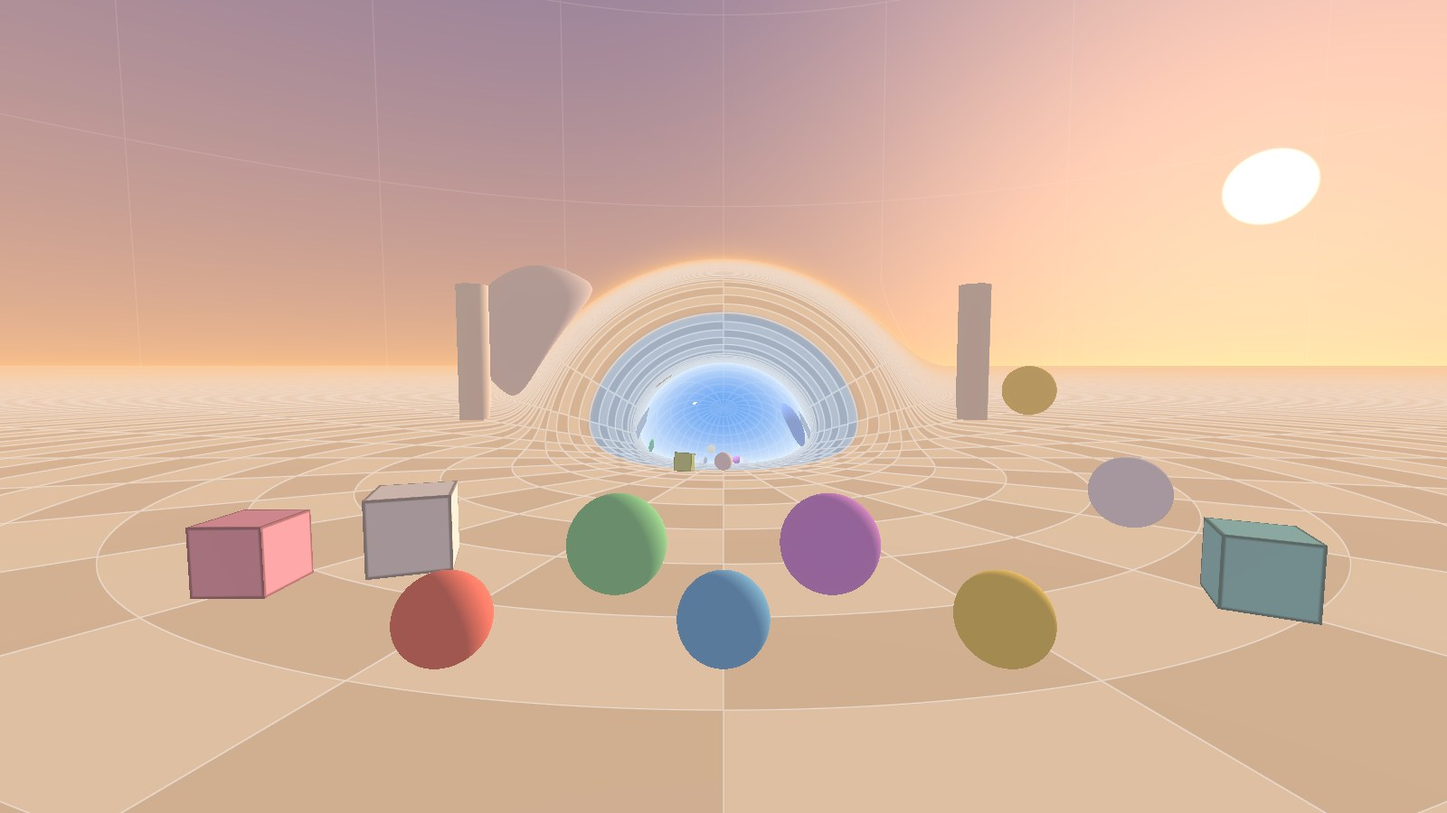
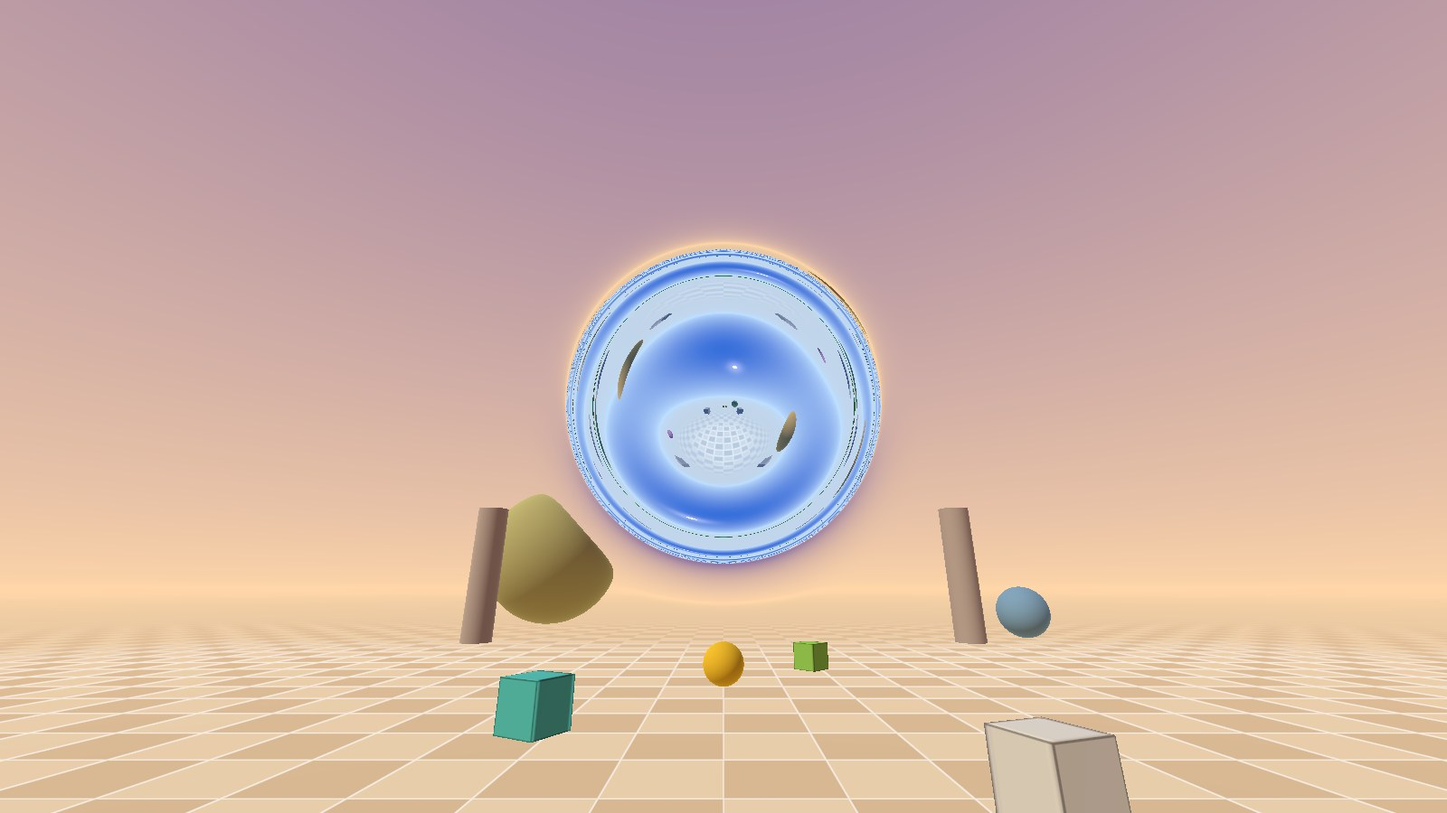
Docs: the lifted wormhole, the lens, every image; the start's picture anew
Claude-Session: https://claude.ai/code/session_01RfyTkwCswJRqyFs5hrCSQs

diff --git a/docs/wishlist.md b/docs/wishlist.md
@@ -10,32 +10,33 @@
 
 ## Новые тела и среды
 
-Мячи и кубы — два частных случая и в физике (`ball_world.gd`), и в рисовании (`shaders/body.gdshaderinc`, TOY). Новому виду нужны обе половины: движение в кривом пространстве и сетка, чьи вершины — точки пространства. Любую такую сетку вершинный шейдер рисует верно: вершина встаёт там, где её видит глаз (`geo_see`), на расстоянии длины геодезической. Между вершинами треугольник прямой, поэтому сетка должна быть настолько мелкой, чтобы кривизна не ломала края (мяч — 48 × 24, грань куба — 8 × 8 клеток, `renderer.gd`). Тело стоит своих вершин (путь к каждой, `geo_see`) и дешёвого пикселя; сколько вершин выдерживает шлем, показывает замер скорости.
+Мячи и кубы — два частных случая и в физике (`ball_world.gd`), и в рисовании, в трёх местах (`docs/geometry.md`, «Как рисуется кадр»): напрямую — обычная сетка (`shaders/body.gdshaderinc`, DIRECT), за линзой — пересечение прямой с телом в замкнутом виде (`shaders/lens.gdshaderinc`), в кривой зоне — сетка вокруг оси глаза, по сечениям полуповерхностями (`shaders/zone.gdshaderinc`: точка, где прямая в (l, rα) выходит из тела). Новому виду нужны все три и движение в кривом пространстве; выпуклому — проще всего. Тело в зоне стоит вершин всех своих изображений (20 сеток, путь к каждой вершине — `geo_see_to`); сколько вершин выдерживает шлем, показывает замер скорости.
 
 - **Твёрдые тела других форм:** капсулы, цилиндры, эллипсоиды, тела, склеенные из мячей, кубов и капсул; дальше выпуклые многогранники и сетки. Форму удобно задавать как тело R^4, разрезанное гиперповерхностью, как куб. У куба момент инерции одно число; другим формам нужен тензор инерции и уравнения Эйлера, всем — касания каждой пары форм. Рисовать — сетка формы и её точки в пространстве, как у мяча и куба в `body.gdshaderinc`. Капсулы и склейки — отладка; произвольные сетки — исследование: касания сетки с сеткой.
-- **Мягкие тела:** желе, мяч, который сплющивается при ударе, и тело, которое тянется сквозь горло, пока одна его часть в мире A, другая в B. Физика — частицы со связями (например, XPBD), каждая идёт по геодезической; надо решить, какое расстояние держит связь: хорду в R^4 или длину по пространству. Рисовать просто: вершины сетки — сами частицы, точки (l, n), как у стрелок гравитации (`body.gdshaderinc`, ARROWS). Начать можно с мяча-эллипсоида, сжатого вдоль удара. Исследование.
+- **Мягкие тела:** желе, мяч, который сплющивается при ударе, и тело, которое тянется сквозь горло, пока одна его часть в мире A, другая в B. Физика — частицы со связями (например, XPBD), каждая идёт по геодезической; надо решить, какое расстояние держит связь: хорду в R^4 или длину по пространству. Рисовать: вершины сетки — сами частицы, точки (l, n), как у стрелок гравитации (`body.gdshaderinc`, ARROWS), по сетке на изображение; треугольник поперёк оси глаза ляжет хордой поперёк кольца, так что у оси сетку надо строить вокруг неё, как у тел в зоне. Начать можно с мяча-эллипсоида, сжатого вдоль удара. Исследование.
 - **Жидкости:** лить воду у горла и смотреть, как она стекает сквозь него в мир B. Частиц нужно много, на процессоре их не посчитать: расчёт на GPU (вычислительные шейдеры, как пол нашей фовеации в `floor_fov.gd`). Поверхность — сетка, построенная по частицам на каждый кадр (например, marching cubes вычислительным шейдером); её вершины ставит тот же вершинный шейдер, но строить её надо в координатах пространства, а в кривой зоне они не плоские. Проще вариант — лужа или бассейн: сетка-карта высот в плоской части мира. Исследование.
 - **Ragdoll (тряпичная кукла):** человечек из капсул на суставах с пределами углов; бросаешь его в горло, и он падает обмякшим в другом мире. Нужны капсулы (выше) и суставы: точки крепления двух частей живут в касательных пространствах разных точек, связь между ними — переносом вдоль пути. Те же суставы дают цепи и двери. Отладка.
 - **Осколки:** куб от сильного удара раскалывается, и куски разлетаются, в том числе сквозь горло. Кусок — выпуклый многогранник, куб, разрезанный плоскостями; его сетка — грани, разбитые на клетки, как у куба. Нужны многогранники (твёрдые тела, выше), правило раскола (порог удара, разрез по Вороному) и много тел сразу: вершины всех осколков идут в цену кадра. Отладка.
 - **Сыпучее:** песок, гравий: насыпать горку у горла и смотреть, как она осыпается в него. Зёрна — частицы с трением, их много, расчёт на GPU, как у жидкости. Один метод (например, MPM) даёт и песок, и жидкость, и мягкие тела, но его сетку надо положить на кривое пространство: карты A и B плоские, кривая зона нет. Лежащий песок можно рисовать картой высот, как лужу, летящие зёрна — мелкими сетками, как мячи. Исследование.
-- **Газ, пыль, дым, туман.** Ровный туман своего цвета в каждом мире — просто: свет гаснет как exp(−σ · длина пути), а длину пути до вершины тела знает `geo_see`, до пола — `geo_floor` (way); долю пути до l = 0 даёт тот же интеграл (`geo_between`), и сквозь горло виден туман другого мира. Туман, густеющий к полу, — отладка: в кривой зоне интеграл плотности вдоль пути берётся по выборкам. Движущиеся облака — дым, уходящий сквозь горло, пыль от упавшего куба — исследование: поле плотности, расчёт на GPU и шаги вдоль луча в каждом пикселе до тела или пола, самое дорогое для шлема.
-- **Огонь.** Пламя — светящийся объём, его рисуют те же шаги вдоль луча, что дым. Огонь ещё и светит: сейчас тела освещены только солнцем и небом своего мира (в горле — их смесью по l, `look_sun4`), а свет костра идёт к предметам по геодезическим, в том числе сквозь горло в другой мир. От костра над полом к точке над полом путь один, как от глаза (`docs/geometry.md`, «Как рисуется кадр», п. 2): его находит тот же `geo_see` с костром вместо глаза. Теней нет; карта теней — тела, нарисованные тем же вершинным шейдером из костра, с длиной геодезической в глубине. Исследование.
+- **Газ, пыль, дым, туман.** Ровный туман своего цвета в каждом мире — просто: свет гаснет как exp(−σ · длина пути), а длину пути до вершины тела знает `geo_see`, до пола и до предмета за линзой — `geo_exit` и `lens_trace` (way); долю пути до l = 0 даёт тот же интеграл (`geo_between`), и сквозь горло виден туман другого мира. Туман, густеющий к полу, — отладка: в кривой зоне интеграл плотности вдоль пути берётся по выборкам. Движущиеся облака — дым, уходящий сквозь горло, пыль от упавшего куба — исследование: поле плотности, расчёт на GPU и шаги вдоль луча в каждом пикселе до тела или пола, самое дорогое для шлема.
+- **Огонь.** Пламя — светящийся объём, его рисуют те же шаги вдоль луча, что дым. Огонь ещё и светит: сейчас тела освещены только солнцем и небом своего мира (в горле — их смесью по l, `look_sun4`), а свет костра идёт к предметам по геодезическим, в том числе сквозь горло в другой мир. От костра к точке путей столько же, сколько от глаза, по одному в классе поворота (`docs/geometry.md`, «Как рисуется кадр», п. 3): их находит тот же `geo_see_to` с костром вместо глаза. Теней нет; карта теней — тела, нарисованные тем же вершинным шейдером из костра, с длиной геодезической в глубине. Исследование.
 
 ## Червоточины
 
 Форма горла — идея ветки `throat` (правый стик по y меняет длину горла, с зажатым правым grip — скругление, A сбрасывает; `tests/throat_test.gd`); делать заново на `main`. Несколько червоточин, порталы и другие формы — работа геометрии рендера: сначала `shaders/geo.gdshaderinc` и эталон `ref/geo.py`.
 
-- **Форма горла:** радиус, длина, скругление, высота над полом, поворот того, как она соединяет миры. Нужны крутилки, удобные в VR, и пересчёт всего, что строится под форму (список — в `wormhole_space.gd`, у `set_profile`). Червоточина целиком над полом — просто: пол тогда не заходит в кривую зону.
-- **Размещение червоточины рукой:** курок, направление контроллером, дальность стиком; центр на уровне пола или вся кривая зона над полом. Отладка.
+- **Форма горла:** радиус, длина, скругление, высота над полом (не ниже Rout: пол вне кривой зоны), поворот того, как она соединяет миры. Нужны крутилки, удобные в VR, и пересчёт всего, что строится под форму (список — в `wormhole_space.gd`, у `set_profile`).
+- **Размещение червоточины рукой:** курок, направление контроллером, дальность стиком; вся кривая зона над полом. Отладка. Ветка `place-wormhole` (PR #37) ставит горло рукой с центром на уровне пола, под прежний рендер: брать оттуда управление и миры со своими координатами.
 - **Несколько червоточин.** Если кривые зоны не пересекаются, между ними луч прямой, а внутри каждой работает тот же одномерный интеграл; так же получается червоточина с обоими входами в одном мире. Отладка.
 - **Плоские порталы.** Рисовать легко — лучи прямые, на рамке луч просто переносится, — но край рамки — излом пространства, и неясно, что с ним делать физике и ходьбе. Исследование.
 - **Стрельба червоточинами с двух рук**, как в Portal. Опирается на размещение рукой и на несколько червоточин или порталы.
 - **Модели пушек.** Любая сетка рисуется как тело (`shaders/body.gdshaderinc`): каждая вершина там, где её видит глаз. Нужен вариант шейдера для сетки в координатах руки; проверять как `tests/curved_check.gd`.
-- **Другие формы: тор, произвольные 4D SDF.** Метод опирается на сферическую симметрию и на то, что пол заслоняет вторые пути к точке (`docs/geometry.md`, «Как рисуется кадр»); без них вершине может соответствовать несколько геодесических или ни одной найденной формулой, и пол придётся вести шагами. Исследование.
+- **Другие формы: тор, произвольные 4D SDF.** Метод опирается на сферическую симметрию (`docs/geometry.md`, «Как рисуется кадр»): луч лежит в плоскости через центр, его выход из зоны — одна формула по b, у каждой точки по одной геодесической в классе поворота. Без неё лучи придётся вести шагами. Исследование.
 
 ## Рендер
 
-- **Пол дешевле.** Попиксельно считаются только пол и небо (`shaders/floor.gdshaderinc`, путь луча — `geo_floor` в `shaders/geo.gdshaderinc`); что стоит пиксель на каждом пути через него, говорит компилятор шлема: `tools/adreno_stats.sh --paths`. Дороже всех — пол на скруглении горла; раскраска пола (атангенс сектора, клетка, линии, дымка) — заметная доля любого пикселя пола. Что можно сделать: половинная точность там, где её хватает (узор пола, небо); величины луча, зависящие только от b (`SL`, `pinf`, коэффициенты скругления), — таблицей вместо формул в каждом пикселе, с особыми частями у b = r_min в замкнутом виде; поворот луча до глаза — таблицей на кадр для каждого глаза. Замерять в шлеме.
+- **Пиксель за линзой дешевле.** Попиксельно считаются пол, небо и предметы за линзой (`shaders/floor.gdshaderinc`; путь луча — `geo_exit`, дальше `lens_trace`); что стоит пиксель на каждом пути, говорит компилятор шлема: `tools/adreno_stats.sh --paths`. Прямой пол и небо дёшевы, сквозь зону — вдвое дороже, а цикл по предметам за линзой поднимает программу до 16 регистров (волны по 64 вместо 128) для всех пикселей. Что можно сделать: предметы за линзой — отдельным проходом только по диску горла (своя программа, свои регистры); список предметов на тайл (отсечение по плоскостям лучей тайла); выход из зоны по b — таблицей на кадр для каждого глаза; половинная точность в узоре пола и небе. Замерять в шлеме.
+- **Тела в зоне дешевле.** Тело в кривой зоне рисуется 20 сетками (`Renderer.ZONE_IMAGES`), и каждая вершина ищет свою геодезическую. Изображения, которые меньше пикселя (снаружи зоны дальние витки у фотонной сферы), можно не рисовать: число изображений по месту глаза. Замерять в шлеме.
 - **Сглаживание краёв предметов.** Предметы — треугольники, и их края ступенчатые; MSAA у тайлового GPU почти бесплатен, но меняет проходы Godot и фовеацию. Отладка.
 - **Мир B у внешнего края.** Неподвижные предметы миров разные (`godot/scene.json`). Сравнить в шлеме замером скорости одну и ту же позу у края в A и в B.
 - **Аватар:** шар головы вокруг глаз и руки — тела, как мячи (`shaders/body.gdshaderinc`); сначала решить, что видно изнутри головы.
@@ -43,4 +44,4 @@
 
 ## Сцены
 
-- **Набор сцен для проверки,** переключаемых кнопкой: три случая из видео (h < R, h = R, h > R), червоточина над полом, две червоточины, кубы и шары у входа.
+- **Набор сцен для проверки,** переключаемых кнопкой: три случая из видео (h < R, h = R, h > R), две червоточины, кубы и шары у входа.

diff --git a/docs/gravity.md b/docs/gravity.md
@@ -41,8 +41,8 @@
 
 ## Показ
 
-- **Пол** в цветах видео (палитра optozorax), цвет плавно идёт за силой: тёмно-синий — нет гравитации, через фиолетовый и оранжевый к жёлтому при 1 g, дальше красный и белый (10 g). Поверх — линии уровня поля через 0,1 g ниже 1 g и через десятую долю декады выше; линия 1 g, земная сила тяжести, темнее и шире.
-- **Силовые линии со стрелками** — на вертикальной поверхности через центр червоточины, поперёк оси x миров (`Renderer._arrow_mesh`; на самом полу они были бы точками): от края показанной области вдоль силы до пола. Стрелки на линиях — направление, цвет — сила, как на полу.
+- **Пол** в цветах видео (палитра optozorax; сила на полу — `WormholeSpace.floor_gravity`, в шейдере `look_grav_floor`), цвет плавно идёт за силой: тёмно-синий — нет гравитации, через фиолетовый и оранжевый к жёлтому при 1 g, дальше красный и белый (10 g). Поверх — линии уровня поля через 0,1 g ниже 1 g и через десятую долю декады выше; линия 1 g, земная сила тяжести, темнее и шире.
+- **Силовые линии со стрелками** — на вертикальной поверхности через центр червоточины, поперёк оси x миров (`Renderer._arrow_mesh`): в каждом мире от высоты в 2 м над верхом кривой зоны, через метр поперёк, вдоль силы до пола. Линии над горлом входят в него сверху, обходят его и выходят снизу в тот же мир. Стрелки на линиях — направление, цвет — сила, как на полу. Их, как и всё, видно сквозь горло во всех изображениях (по 6 на каждую).
 
 ## Другие работы
 

diff --git a/docs/geometry.md b/docs/geometry.md
@@ -67,4 +67,4 @@ dl/ds = V_l,   dn/ds = v / r,   dU_l/ds = (r'/r) v·u,   du/ds = −(r'/r) U_l v
 - вершина шара — на хорде radius с ошибкой 1,6·10⁻⁵ м;
 - глаз — в 6,5·10⁻⁶ м от точного, оси — в 2,3·10⁻⁴ рад, при смещении до 6 см.
 
-`tools/test_stereo.sh` сверяет картинку каждого глаза в кривой зоне с лучами, посчитанными независимо (RK4 в трёх измерениях, `tools/compare/curved.py`): контуры шаров и кубов и клетки пола в горле, на краю кривой зоны, в скруглении мира B и в плоском мире.
+`tools/test_stereo.sh` сверяет картинку каждого глаза там, где свет гнётся, с лучами, посчитанными независимо (RK4 в трёх измерениях по каждому лучу, сколько бы раз он ни обогнул горло, `tools/compare/curved.py`): контуры всех изображений шаров и кубов — у головы, на оси глаза, в горле, за ним и в мире B — и клетки пола, на девяти местах: со старта, на уровне горла, на краю кривой зоны, в скруглении, в горле вдоль и поперёк, в мире B, вдали и под горлом. Сетка лучей по всей картинке ловит изображение, которого в ней нет.
